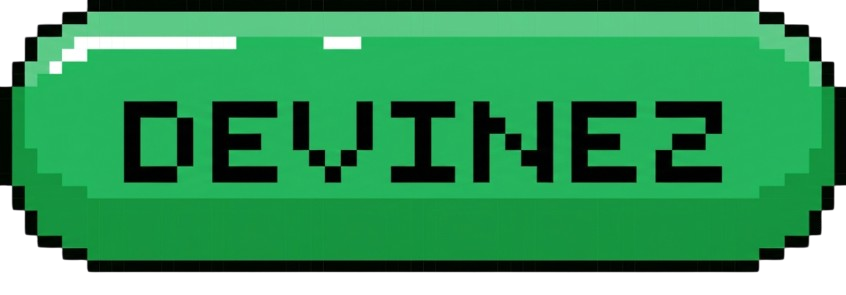
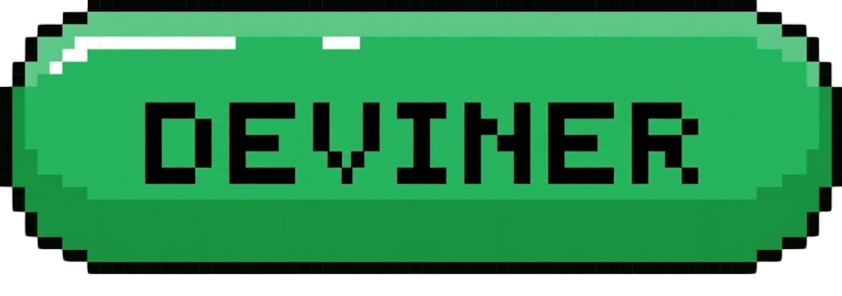
regles du jeu

diff --git a/affichage2.py b/affichage2.py
@@ -46,7 +46,7 @@ class Jeu_Affichage:
             "IN_TRANSITION": False,
             "Size_BOUTTON": (150, 50),
             "Size_Bottom": 200,
-            "Button" : ["deviner", "1vs1JOUEUR", "1vs1BOT"],
+            "Button" : ["deviner", "1vs1JOUEUR", "1vs1BOT", "rules_button"],
             "Color_List": [(255, 0, 0), (0, 255, 0), (0, 0, 255), (255, 255, 0), (255, 0, 255), (0, 255, 255), (128, 0, 0), (0, 128, 0), (0, 0, 128)],
             "MessageScale" : 7,
             "OutlineSize" : 3,
@@ -609,7 +609,7 @@ class Jeu_Affichage:
         Analyse le bouton actuellement sélectionné par le joueur et déclenche l'action correspondante
         """
         Boutton = self.Closest_Clickable_Func()
-        if self.Winner_Player and self.cache_images.get("winner") and self.cache_images["winner"]["frame"] >= 120:
+        if self.state == "rules_button" or (self.Winner_Player and self.cache_images.get("winner") and self.cache_images["winner"]["frame"] >= 120):
             self.Reset_Jeu()
         elif Boutton and self.state == "start":
                 self.Click_Start(Boutton)
@@ -802,7 +802,7 @@ class Jeu_Affichage:
         """
         Affiche les boutons du menu principal permettant de choisir le mode de jeu
         """
-        pos = 200
+        pos =300
         for AllButton in self.Parametre["Button"]:
             self.Add_Boutton({
                 "Nom": AllButton, 
@@ -814,13 +814,26 @@ class Jeu_Affichage:
                 "IsButton": True
                 })
             pos -= 200
-                
+
+    def Afficher_Regle_Du_Jeu(self):
+        self.Add_Boutton({
+            "Nom": "rules", 
+            "Scale": .2, 
+            "Size": (self.xfull*.55, self.yfull*.8), 
+            "Offset": (-self.xfull*2, 0), 
+            "goaloffset": (0, 0), 
+            "notClickable": True,
+            "SpeedTween" : .08
+            })
+            
     def Afficher_State(self):
          """
          Affiche l'écran correspondant à l'état actuel du jeu
          """
          if self.state == "start":
             self.start_state()
+         elif self.state == "rules_button":
+            self.Afficher_Regle_Du_Jeu()
          else:
             self.deviner_state()
 
@@ -869,7 +882,7 @@ class Jeu_Affichage:
         Affiche un fond d'écran
         """
         backgroundtext = self.state == "1vs1JOUEUR" and str.lower(self.IsPlaying) or "background"
-        background = self.Add_Boutton({
+        self.Add_Boutton({
                 "Nom": backgroundtext, 
                 "Scale": 1, 
                 "Size": (self.xfull, self.yfull), 
@@ -970,18 +983,18 @@ class Jeu_Affichage:
                    
             if not self.cache_images.get(Text + "_Smoke") or self.cache_images[Text + "_Smoke"]["DestroyFrame"] > 0:
                 self.Add_Boutton({
-                        "Nom": Text + "_Smoke", 
-                        "Scale": Scale + 1.2, 
-                        "Size": (25*Scale, 35*(Scale/2)), 
-                        "Offset": Position, 
-                        "goaloffset": Position, 
-                        "notClickable": True,
-                        "SpeedTween" : 1,
-                        "Cover" : "smoke",
-                        "IsFlipBook": {"colonne" : 4, "ligne": 4},
-                        "DestroyFrame":DestroyFrame_Smoke,
-                        "LowerFrame" : Speed
-                        })
+                    "Nom": Text + "_Smoke", 
+                    "Scale": Scale + 1.2, 
+                    "Size": (25*Scale, 35*(Scale/2)), 
+                    "Offset": Position, 
+                    "goaloffset": Position, 
+                    "notClickable": True,
+                    "SpeedTween" : 1,
+                    "Cover" : "smoke",
+                    "IsFlipBook": {"colonne" : 4, "ligne": 4},
+                    "DestroyFrame":DestroyFrame_Smoke,
+                    "LowerFrame" : Speed
+                    })
 
     def Message_On_Screen(self, Text:str, Duration:float=4,Scale:int=4, Color = (0,0,0), TextSize = 100, Outline = True):
         """
